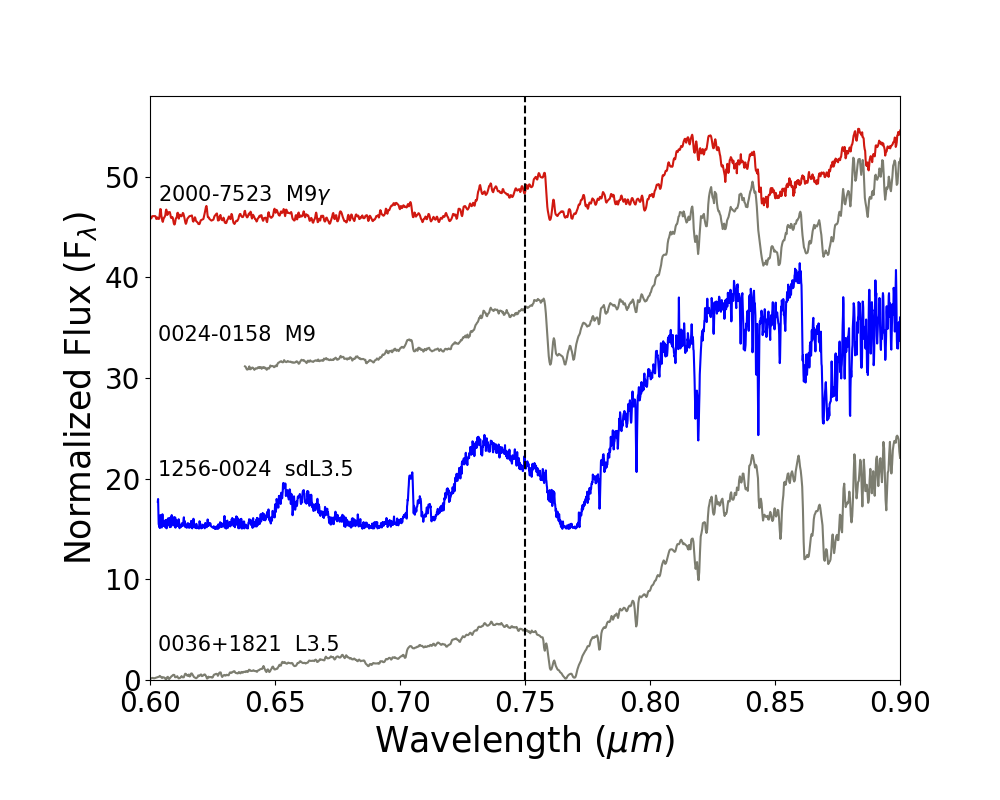
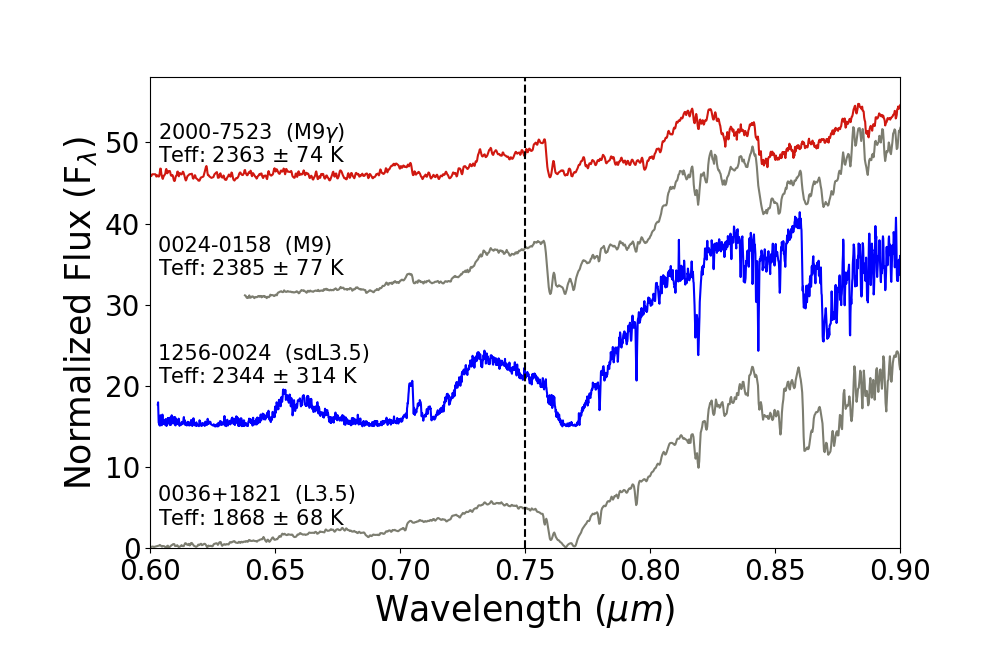
Added Teffs

diff --git a/RedOpticalComparison.py b/RedOpticalComparison.py
@@ -40,7 +40,7 @@ norm_df_fieldspt = df_fieldspt['f']/(np.average(norm_region4['f']))
 # ------ Set up figure layout --------
 fig = plt.figure()
 ax1 = fig.add_subplot(111)
-fig.set_size_inches(10, 8)
+fig.set_size_inches(10, 6.45)
 plt.gcf().subplots_adjust(bottom=0.15, left=0.15)
 plt.xlim([0.60, 0.90])
 plt.ylim([-0.01, 58])
@@ -65,9 +65,13 @@ plt.plot(divide['x'], divide['y'], color='k', linestyle='dashed')
 
 
 # -------- Label the Objects ---------
-ax1.text(0.01, 0.05, '0036+1821  L3.5', transform=ax1.transAxes, color='k', fontsize=15)
-ax1.text(0.01, 0.35, '1256-0024  sdL3.5', transform=ax1.transAxes, color='k', fontsize=15)
-ax1.text(0.01, 0.58, '0024-0158  M9', transform=ax1.transAxes, color='k', fontsize=15)
-ax1.text(0.01, 0.82, '2000-7523  M9$\gamma$', transform=ax1.transAxes, color='k', fontsize=15)
+ax1.text(0.01, 0.1, '0036+1821  (L3.5)', transform=ax1.transAxes, color='k', fontsize=15)
+ax1.text(0.01, 0.05, 'Teff: 1868 $\pm$ 68 K ', transform=ax1.transAxes, color='k', fontsize=15)
+ax1.text(0.01, 0.4, '1256-0024  (sdL3.5)', transform=ax1.transAxes, color='k', fontsize=15)
+ax1.text(0.01, 0.35, 'Teff: 2344 $\pm$ 314 K', transform=ax1.transAxes, color='k', fontsize=15)
+ax1.text(0.01, 0.63, '0024-0158  (M9)', transform=ax1.transAxes, color='k', fontsize=15)
+ax1.text(0.01, 0.58, 'Teff: 2385 $\pm$ 77 K', transform=ax1.transAxes, color='k', fontsize=15)
+ax1.text(0.01, 0.87, '2000-7523  (M9$\gamma$)', transform=ax1.transAxes, color='k', fontsize=15)
+ax1.text(0.01, 0.82, 'Teff: 2363 $\pm$ 74 K', transform=ax1.transAxes, color='k', fontsize=15)
 
 plt.savefig('Plots/RedOpticalComparison.png')
